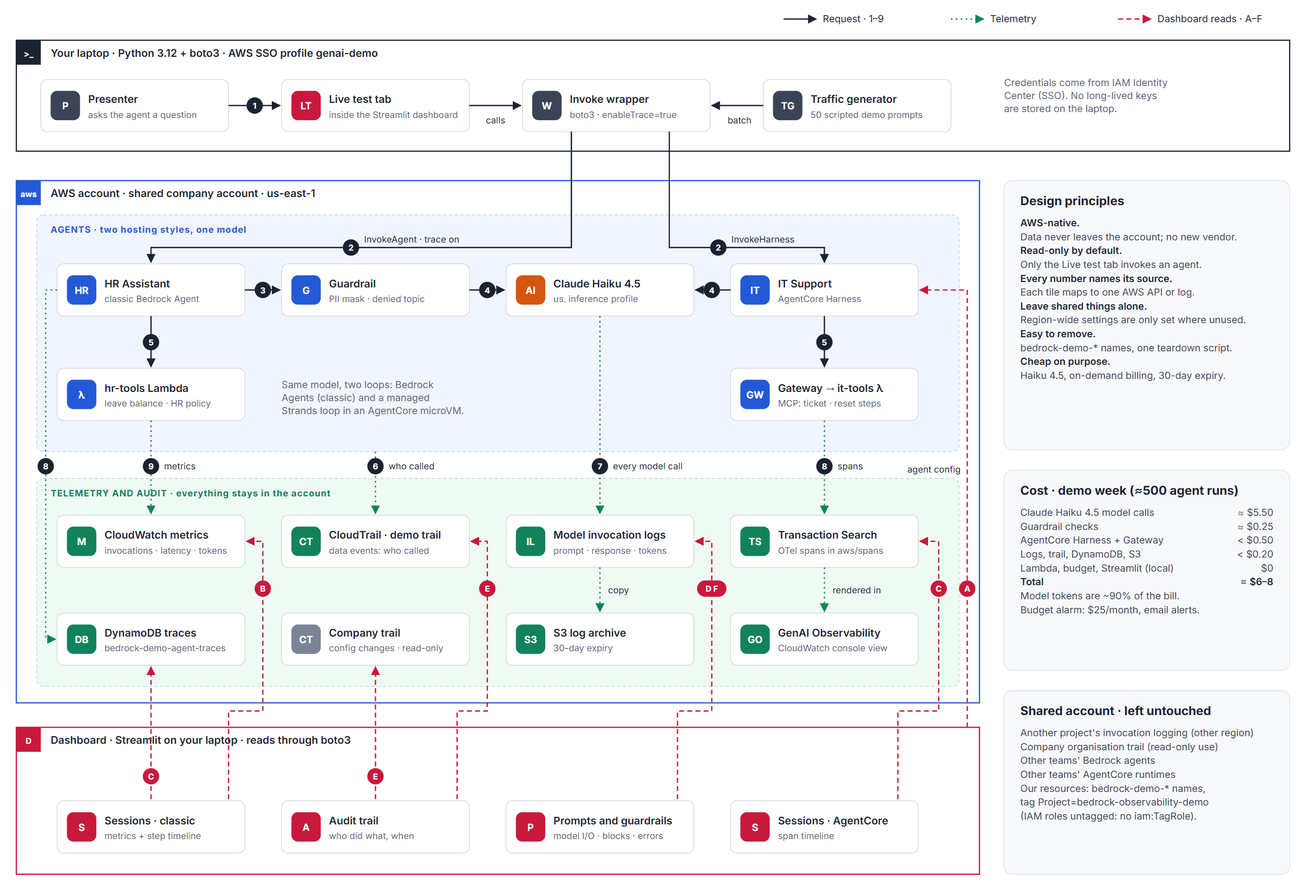
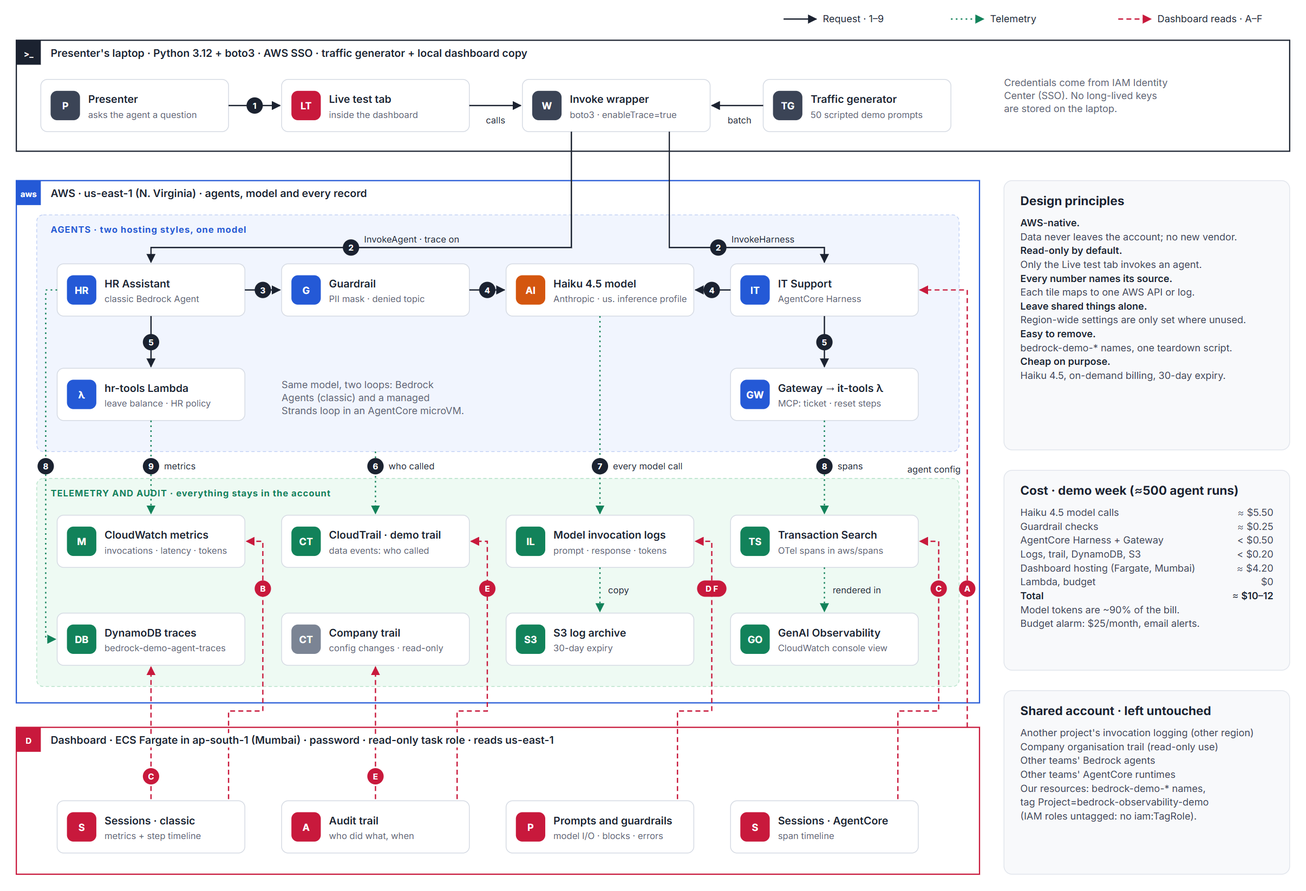
Architecture: show the hosted dashboard in ap-south-1
The dashboard box now shows ECS Fargate in Mumbai reading us-east-1, the cost panel
includes hosting, and the title is drawn above the read arrows.

diff --git a/docs/architecture.html b/docs/architecture.html
@@ -104,7 +104,7 @@ footer { max-width: 1240px; margin: 48px auto 0; color: var(--muted); font-size:
 
 <main>
 <figure>
-  <div class="diagram"><svg viewBox="0 0 1600 1090" role="img" aria-label="Requests flow from the laptop to a classic Bedrock Agent and an AgentCore agent that share Claude Haiku 4.5; every call is recorded by CloudTrail, model invocation logging, CloudWatch metrics, DynamoDB traces and AgentCore spans, and the Streamlit dashboard reads all of them back."><defs><marker id="a-ink" viewBox="0 0 10 10" refX="9" refY="5" markerWidth="7" markerHeight="7" orient="auto-start-reverse"><path d="M0,0 L10,5 L0,10 z" fill="#1b2230"/></marker><marker id="a-green" viewBox="0 0 10 10" refX="9" refY="5" markerWidth="7" markerHeight="7" orient="auto-start-reverse"><path d="M0,0 L10,5 L0,10 z" fill="#12825a"/></marker><marker id="a-red" viewBox="0 0 10 10" refX="9" refY="5" markerWidth="7" markerHeight="7" orient="auto-start-reverse"><path d="M0,0 L10,5 L0,10 z" fill="#c8193c"/></marker></defs><path d="M960,22 H1000" fill="none" stroke="#1b2230" stroke-width="1.6" marker-end="url(#a-ink)"/><text x="1008" y="26" text-anchor="start" class="lg">Request · 1–9</text><path d="M1165,22 H1205" fill="none" stroke="#12825a" stroke-width="1.6" stroke-dasharray="2 4" marker-end="url(#a-green)"/><text x="1213" y="26" text-anchor="start" class="lg">Telemetry</text><path d="M1370,22 H1410" fill="none" stroke="#c8193c" stroke-width="1.6" stroke-dasharray="6 4" marker-end="url(#a-red)"/><text x="1418" y="26" text-anchor="start" class="lg">Dashboard reads · A–F</text><rect x="20" y="48" width="1560" height="136" class="box" stroke="#1b2230"/><rect x="20" y="48" width="30" height="30" fill="#1b2230"/><text x="35" y="68" text-anchor="middle" class="ic sm">&gt;_</text><text x="62" y="68" class="bh">Your laptop · Python 3.12 + boto3 · AWS SSO profile genai-demo</text><g><rect x="50" y="96" width="230" height="64" rx="8" class="card"/><rect x="62" y="110" width="36" height="36" rx="8" fill="#3b4456"/><text x="80" y="133" text-anchor="middle" class="ic">P</text><text x="108" y="125" class="ct">Presenter</text><text x="108" y="143" class="cs">asks the agent a question</text></g><g><rect x="345" y="96" width="230" height="64" rx="8" class="card"/><rect x="357" y="110" width="36" height="36" rx="8" fill="#c8193c"/><text x="375" y="133" text-anchor="middle" class="ic">LT</text><text x="403" y="125" class="ct">Live test tab</text><text x="403" y="143" class="cs">inside the Streamlit dashboard</text></g><g><rect x="640" y="96" width="230" height="64" rx="8" class="card"/><rect x="652" y="110" width="36" height="36" rx="8" fill="#3b4456"/><text x="670" y="133" text-anchor="middle" class="ic">W</text><text x="698" y="125" class="ct">Invoke wrapper</text><text x="698" y="143" class="cs">boto3 · enableTrace=true</text></g><g><rect x="935" y="96" width="230" height="64" rx="8" class="card"/><rect x="947" y="110" width="36" height="36" rx="8" fill="#3b4456"/><text x="965" y="133" text-anchor="middle" class="ic">TG</text><text x="993" y="125" class="ct">Traffic generator</text><text x="993" y="143" class="cs">50 scripted demo prompts</text></g><path d="M280,128 H343" fill="none" stroke="#1b2230" stroke-width="1.6" marker-end="url(#a-ink)"/><circle cx="312" cy="128" r="10" fill="#1b2230"/><text x="312" y="132" text-anchor="middle" class="nm">1</text><path d="M575,128 H638" fill="none" stroke="#1b2230" stroke-width="1.6" marker-end="url(#a-ink)"/><text x="607" y="150" text-anchor="middle" class="al">calls</text><path d="M935,128 H872" fill="none" stroke="#1b2230" stroke-width="1.6" marker-end="url(#a-ink)"/><text x="906" y="150" text-anchor="middle" class="al">batch</text><text x="1230" y="104" text-anchor="start" class="nt">Credentials come from IAM Identity</text><text x="1230" y="120" text-anchor="start" class="nt">Center (SSO). No long-lived keys</text><text x="1230" y="136" text-anchor="start" class="nt">are stored on the laptop.</text><rect x="20" y="220" width="1180" height="640" class="box" stroke="#2459d6"/><rect x="20" y="220" width="30" height="30" fill="#2459d6"/><text x="35" y="240" text-anchor="middle" class="ic sm">aws</text><text x="62" y="240" class="bh">AWS account · shared company account · us-east-1</text><rect x="45" y="262" width="1130" height="290" rx="8" fill="#f1f5fe" stroke="#c3d2f5" stroke-dasharray="4 3"/><text x="62" y="284" class="zl" fill="#2459d6">AGENTS · two hosting styles, one model</text><g><rect x="70" y="322" width="230" height="64" rx="8" class="card"/><rect x="82" y="336" width="36" height="36" rx="8" fill="#2459d6"/><text x="100" y="359" text-anchor="middle" class="ic">HR</text><text x="128" y="351" class="ct">HR Assistant</text><text x="128" y="369" class="cs">classic Bedrock Agent</text></g><g><rect x="345" y="322" width="230" height="64" rx="8" class="card"/><rect x="357" y="336" width="36" height="36" rx="8" fill="#2459d6"/><text x="375" y="359" text-anchor="middle" class="ic">G</text><text x="403" y="351" class="ct">Guardrail</text><text x="403" y="369" class="cs">PII mask · denied topic</text></g><g><rect x="620" y="322" width="230" height="64" rx="8" class="card"/><rect x="632" y="336" width="36" height="36" rx="8" fill="#d4560f"/><text x="650" y="359" text-anchor="middle" class="ic">AI</text><text x="678" y="351" class="ct">Claude Haiku 4.5</text><text x="678" y="369" class="cs">us. inference profile</text></g><g><rect x="895" y="322" width="230" height="64" rx="8" class="card"/><rect x="907" y="336" width="36" height="36" rx="8" fill="#2459d6"/><text x="925" y="359" text-anchor="middle" class="ic">IT</text><text x="953" y="351" class="ct">IT Support</text><text x="953" y="369" class="cs">AgentCore Harness</text></g><g><rect x="70" y="450" width="230" height="64" rx="8" class="card"/><rect x="82" y="464" width="36" height="36" rx="8" fill="#2459d6"/><text x="100" y="487" text-anchor="middle" class="ic">λ</text><text x="128" y="479" class="ct">hr-tools Lambda</text><text x="128" y="497" class="cs">leave balance · HR policy</text></g><g><rect x="895" y="450" width="230" height="64" rx="8" class="card"/><rect x="907" y="464" width="36" height="36" rx="8" fill="#2459d6"/><text x="925" y="487" text-anchor="middle" class="ic">GW</text><text x="953" y="479" class="ct">Gateway → it-tools λ</text><text x="953" y="497" class="cs">MCP: ticket · reset steps</text></g><text x="345" y="474" text-anchor="start" class="nt">Same model, two loops: Bedrock</text><text x="345" y="490" text-anchor="start" class="nt">Agents (classic) and a managed</text><text x="345" y="506" text-anchor="start" class="nt">Strands loop in an AgentCore microVM.</text><path d="M700,160 V302 H185 V320" fill="none" stroke="#1b2230" stroke-width="1.6" marker-end="url(#a-ink)"/><circle cx="430" cy="302" r="10" fill="#1b2230"/><text x="430" y="306" text-anchor="middle" class="nm">2</text><text x="446" y="296" text-anchor="start" class="al">InvokeAgent · trace on</text><path d="M820,160 V302 H1010 V320" fill="none" stroke="#1b2230" stroke-width="1.6" marker-end="url(#a-ink)"/><circle cx="880" cy="302" r="10" fill="#1b2230"/><text x="880" y="306" text-anchor="middle" class="nm">2</text><text x="896" y="296" text-anchor="start" class="al">InvokeHarness</text><path d="M300,354 H343" fill="none" stroke="#1b2230" stroke-width="1.6" marker-end="url(#a-ink)"/><circle cx="322" cy="354" r="10" fill="#1b2230"/><text x="322" y="358" text-anchor="middle" class="nm">3</text><path d="M575,354 H618" fill="none" stroke="#1b2230" stroke-width="1.6" marker-end="url(#a-ink)"/><circle cx="597" cy="354" r="10" fill="#1b2230"/><text x="597" y="358" text-anchor="middle" class="nm">4</text><path d="M895,354 H852" fill="none" stroke="#1b2230" stroke-width="1.6" marker-end="url(#a-ink)"/><circle cx="872" cy="354" r="10" fill="#1b2230"/><text x="872" y="358" text-anchor="middle" class="nm">4</text><path d="M185,386 V448" fill="none" stroke="#1b2230" stroke-width="1.6" marker-end="url(#a-ink)"/><circle cx="185" cy="418" r="10" fill="#1b2230"/><text x="185" y="422" text-anchor="middle" class="nm">5</text><path d="M1010,386 V448" fill="none" stroke="#1b2230" stroke-width="1.6" marker-end="url(#a-ink)"/><circle cx="1010" cy="418" r="10" fill="#1b2230"/><text x="1010" y="422" text-anchor="middle" class="nm">5</text><rect x="45" y="585" width="1130" height="255" rx="8" fill="#eefaf3" stroke="#b9e3cc" stroke-dasharray="4 3"/><text x="62" y="607" class="zl" fill="#12825a">TELEMETRY AND AUDIT · everything stays in the account</text><g><rect x="70" y="630" width="230" height="64" rx="8" class="card"/><rect x="82" y="644" width="36" height="36" rx="8" fill="#12825a"/><text x="100" y="667" text-anchor="middle" class="ic">M</text><text x="128" y="659" class="ct">CloudWatch metrics</text><text x="128" y="677" class="cs">invocations · latency · tokens</text></g><g><rect x="345" y="630" width="230" height="64" rx="8" class="card"/><rect x="357" y="644" width="36" height="36" rx="8" fill="#12825a"/><text x="375" y="667" text-anchor="middle" class="ic">CT</text><text x="403" y="659" class="ct">CloudTrail · demo trail</text><text x="403" y="677" class="cs">data events: who called</text></g><g><rect x="620" y="630" width="230" height="64" rx="8" class="card"/><rect x="632" y="644" width="36" height="36" rx="8" fill="#12825a"/><text x="650" y="667" text-anchor="middle" class="ic">IL</text><text x="678" y="659" class="ct">Model invocation logs</text><text x="678" y="677" class="cs">prompt · response · tokens</text></g><g><rect x="895" y="630" width="230" height="64" rx="8" class="card"/><rect x="907" y="644" width="36" height="36" rx="8" fill="#12825a"/><text x="925" y="667" text-anchor="middle" class="ic">TS</text><text x="953" y="659" class="ct">Transaction Search</text><text x="953" y="677" class="cs">OTel spans in aws/spans</text></g><g><rect x="70" y="750" width="230" height="64" rx="8" class="card"/><rect x="82" y="764" width="36" height="36" rx="8" fill="#12825a"/><text x="100" y="787" text-anchor="middle" class="ic">DB</text><text x="128" y="779" class="ct">DynamoDB traces</text><text x="128" y="797" class="cs">bedrock-demo-agent-traces</text></g><g><rect x="345" y="750" width="230" height="64" rx="8" class="card"/><rect x="357" y="764" width="36" height="36" rx="8" fill="#7b8494"/><text x="375" y="787" text-anchor="middle" class="ic">CT</text><text x="403" y="779" class="ct">Company trail</text><text x="403" y="797" class="cs">config changes · read-only</text></g><g><rect x="620" y="750" width="230" height="64" rx="8" class="card"/><rect x="632" y="764" width="36" height="36" rx="8" fill="#12825a"/><text x="650" y="787" text-anchor="middle" class="ic">S3</text><text x="678" y="779" class="ct">S3 log archive</text><text x="678" y="797" class="cs">30-day expiry</text></g><g><rect x="895" y="750" width="230" height="64" rx="8" class="card"/><rect x="907" y="764" width="36" height="36" rx="8" fill="#12825a"/><text x="925" y="787" text-anchor="middle" class="ic">GO</text><text x="953" y="779" class="ct">GenAI Observability</text><text x="953" y="797" class="cs">CloudWatch console view</text></g><path d="M460,552 V628" fill="none" stroke="#12825a" stroke-width="1.6" stroke-dasharray="2 4" marker-end="url(#a-green)"/><circle cx="460" cy="570" r="10" fill="#1b2230"/><text x="460" y="574" text-anchor="middle" class="nm">6</text><text x="476" y="574" text-anchor="start" class="al">who called</text><path d="M735,386 V628" fill="none" stroke="#12825a" stroke-width="1.6" stroke-dasharray="2 4" marker-end="url(#a-green)"/><circle cx="735" cy="570" r="10" fill="#1b2230"/><text x="735" y="574" text-anchor="middle" class="nm">7</text><text x="751" y="574" text-anchor="start" class="al">every model call</text><path d="M70,354 H56 V782 H68" fill="none" stroke="#12825a" stroke-width="1.6" stroke-dasharray="2 4" marker-end="url(#a-green)"/><circle cx="56" cy="570" r="10" fill="#1b2230"/><text x="56" y="574" text-anchor="middle" class="nm">8</text><path d="M1010,514 V628" fill="none" stroke="#12825a" stroke-width="1.6" stroke-dasharray="2 4" marker-end="url(#a-green)"/><circle cx="1010" cy="570" r="10" fill="#1b2230"/><text x="1010" y="574" text-anchor="middle" class="nm">8</text><text x="1026" y="574" text-anchor="start" class="al">spans</text><path d="M185,514 V628" fill="none" stroke="#12825a" stroke-width="1.6" stroke-dasharray="2 4" marker-end="url(#a-green)"/><circle cx="185" cy="570" r="10" fill="#1b2230"/><text x="185" y="574" text-anchor="middle" class="nm">9</text><text x="201" y="574" text-anchor="start" class="al">metrics</text><path d="M735,694 V748" fill="none" stroke="#12825a" stroke-width="1.6" stroke-dasharray="2 4" marker-end="url(#a-green)"/><text x="745" y="726" text-anchor="start" class="al">copy</text><path d="M1010,694 V748" fill="none" stroke="#12825a" stroke-width="1.6" stroke-dasharray="2 4" marker-end="url(#a-green)"/><text x="1020" y="726" text-anchor="start" class="al">rendered in</text><rect x="20" y="890" width="1180" height="180" class="box" stroke="#c8193c"/><rect x="20" y="890" width="30" height="30" fill="#c8193c"/><text x="35" y="910" text-anchor="middle" class="ic sm">D</text><text x="62" y="910" class="bh">Dashboard · Streamlit on your laptop · reads through boto3</text><g><rect x="70" y="980" width="230" height="64" rx="8" class="card"/><rect x="82" y="994" width="36" height="36" rx="8" fill="#c8193c"/><text x="100" y="1017" text-anchor="middle" class="ic">S</text><text x="128" y="1009" class="ct">Sessions · classic</text><text x="128" y="1027" class="cs">metrics + step timeline</text></g><g><rect x="345" y="980" width="230" height="64" rx="8" class="card"/><rect x="357" y="994" width="36" height="36" rx="8" fill="#c8193c"/><text x="375" y="1017" text-anchor="middle" class="ic">A</text><text x="403" y="1009" class="ct">Audit trail</text><text x="403" y="1027" class="cs">who did what, when</text></g><g><rect x="620" y="980" width="230" height="64" rx="8" class="card"/><rect x="632" y="994" width="36" height="36" rx="8" fill="#c8193c"/><text x="650" y="1017" text-anchor="middle" class="ic">P</text><text x="678" y="1009" class="ct">Prompts and guardrails</text><text x="678" y="1027" class="cs">model I/O · blocks · errors</text></g><g><rect x="895" y="980" width="230" height="64" rx="8" class="card"/><rect x="907" y="994" width="36" height="36" rx="8" fill="#c8193c"/><text x="925" y="1017" text-anchor="middle" class="ic">S</text><text x="953" y="1009" class="ct">Sessions · AgentCore</text><text x="953" y="1027" class="cs">span timeline</text></g><path d="M185,978 V816" fill="none" stroke="#c8193c" stroke-width="1.6" stroke-dasharray="6 4" marker-end="url(#a-red)"/><rect x="175.0" y="940" width="20" height="20" rx="10" fill="#c8193c"/><text x="185" y="954" text-anchor="middle" class="nm">C</text><path d="M280,978 V870 H322 V662 H302" fill="none" stroke="#c8193c" stroke-width="1.6" stroke-dasharray="6 4" marker-end="url(#a-red)"/><rect x="312.0" y="710" width="20" height="20" rx="10" fill="#c8193c"/><text x="322" y="724" text-anchor="middle" class="nm">B</text><path d="M460,978 V816" fill="none" stroke="#c8193c" stroke-width="1.6" stroke-dasharray="6 4" marker-end="url(#a-red)"/><rect x="450.0" y="940" width="20" height="20" rx="10" fill="#c8193c"/><text x="460" y="954" text-anchor="middle" class="nm">E</text><path d="M560,978 V870 H597 V662 H577" fill="none" stroke="#c8193c" stroke-width="1.6" stroke-dasharray="6 4" marker-end="url(#a-red)"/><rect x="587.0" y="710" width="20" height="20" rx="10" fill="#c8193c"/><text x="597" y="724" text-anchor="middle" class="nm">E</text><path d="M830,978 V870 H872 V662 H852" fill="none" stroke="#c8193c" stroke-width="1.6" stroke-dasharray="6 4" marker-end="url(#a-red)"/><rect x="854.0" y="710" width="36" height="20" rx="10" fill="#c8193c"/><text x="872" y="724" text-anchor="middle" class="nm">D F</text><path d="M1100,978 V870 H1150 V662 H1127" fill="none" stroke="#c8193c" stroke-width="1.6" stroke-dasharray="6 4" marker-end="url(#a-red)"/><rect x="1140.0" y="710" width="20" height="20" rx="10" fill="#c8193c"/><text x="1150" y="724" text-anchor="middle" class="nm">C</text><path d="M1185,890 V354 H1127" fill="none" stroke="#c8193c" stroke-width="1.6" stroke-dasharray="6 4" marker-end="url(#a-red)"/><rect x="1175.0" y="710" width="20" height="20" rx="10" fill="#c8193c"/><text x="1185" y="724" text-anchor="middle" class="nm">A</text><text x="1177" y="578" text-anchor="end" class="al">agent config</text><rect x="1230" y="220" width="350" height="330" rx="10" class="panel"/><text x="1250" y="250" text-anchor="start" class="ph">Design principles</text><text x="1250" y="276" text-anchor="start" class="pb">AWS-native.</text><text x="1250" y="293" text-anchor="start" class="pt">Data never leaves the account; no new vendor.</text><text x="1250" y="310" text-anchor="start" class="pb">Read-only by default.</text><text x="1250" y="327" text-anchor="start" class="pt">Only the Live test tab invokes an agent.</text><text x="1250" y="344" text-anchor="start" class="pb">Every number names its source.</text><text x="1250" y="361" text-anchor="start" class="pt">Each tile maps to one AWS API or log.</text><text x="1250" y="378" text-anchor="start" class="pb">Leave shared things alone.</text><text x="1250" y="395" text-anchor="start" class="pt">Region-wide settings are only set where unused.</text><text x="1250" y="412" text-anchor="start" class="pb">Easy to remove.</text><text x="1250" y="429" text-anchor="start" class="pt">bedrock-demo-* names, one teardown script.</text><text x="1250" y="446" text-anchor="start" class="pb">Cheap on purpose.</text><text x="1250" y="463" text-anchor="start" class="pt">Haiku 4.5, on-demand billing, 30-day expiry.</text><rect x="1230" y="575" width="350" height="245" rx="10" class="panel"/><text x="1250" y="605" text-anchor="start" class="ph">Cost · demo week (≈500 agent runs)</text><text x="1250" y="631" text-anchor="start" class="pt">Claude Haiku 4.5 model calls</text><text x="1560" y="631" text-anchor="end" class="pt">≈ $5.50</text><text x="1250" y="648" text-anchor="start" class="pt">Guardrail checks</text><text x="1560" y="648" text-anchor="end" class="pt">≈ $0.25</text><text x="1250" y="665" text-anchor="start" class="pt">AgentCore Harness + Gateway</text><text x="1560" y="665" text-anchor="end" class="pt">&lt; $0.50</text><text x="1250" y="682" text-anchor="start" class="pt">Logs, trail, DynamoDB, S3</text><text x="1560" y="682" text-anchor="end" class="pt">&lt; $0.20</text><text x="1250" y="699" text-anchor="start" class="pt">Lambda, budget, Streamlit (local)</text><text x="1560" y="699" text-anchor="end" class="pt">$0</text><text x="1250" y="716" text-anchor="start" class="pb">Total</text><text x="1560" y="716" text-anchor="end" class="pb">≈ $6–8</text><text x="1250" y="733" text-anchor="start" class="pt">Model tokens are ~90% of the bill.</text><text x="1250" y="750" text-anchor="start" class="pt">Budget alarm: $25/month, email alerts.</text><rect x="1230" y="845" width="350" height="225" rx="10" class="panel"/><text x="1250" y="875" text-anchor="start" class="ph">Shared account · left untouched</text><text x="1250" y="901" text-anchor="start" class="pt">Another project&#x27;s invocation logging (other region)</text><text x="1250" y="918" text-anchor="start" class="pt">Company organisation trail (read-only use)</text><text x="1250" y="935" text-anchor="start" class="pt">Other teams&#x27; Bedrock agents</text><text x="1250" y="952" text-anchor="start" class="pt">Other teams&#x27; AgentCore runtimes</text><text x="1250" y="969" text-anchor="start" class="pt">Our resources: bedrock-demo-* names,</text><text x="1250" y="986" text-anchor="start" class="pt">tag Project=bedrock-observability-demo</text><text x="1250" y="1003" text-anchor="start" class="pt">(IAM roles untagged: no iam:TagRole).</text></svg></div>
+  <div class="diagram"><svg viewBox="0 0 1600 1090" role="img" aria-label="Requests flow from the laptop to a classic Bedrock Agent and an AgentCore agent that share the Haiku 4.5 model in us-east-1; every call is recorded by CloudTrail, model invocation logging, CloudWatch metrics, DynamoDB traces and AgentCore spans, and the Streamlit dashboard reads all of them back."><defs><marker id="a-ink" viewBox="0 0 10 10" refX="9" refY="5" markerWidth="7" markerHeight="7" orient="auto-start-reverse"><path d="M0,0 L10,5 L0,10 z" fill="#1b2230"/></marker><marker id="a-green" viewBox="0 0 10 10" refX="9" refY="5" markerWidth="7" markerHeight="7" orient="auto-start-reverse"><path d="M0,0 L10,5 L0,10 z" fill="#12825a"/></marker><marker id="a-red" viewBox="0 0 10 10" refX="9" refY="5" markerWidth="7" markerHeight="7" orient="auto-start-reverse"><path d="M0,0 L10,5 L0,10 z" fill="#c8193c"/></marker></defs><path d="M960,22 H1000" fill="none" stroke="#1b2230" stroke-width="1.6" marker-end="url(#a-ink)"/><text x="1008" y="26" text-anchor="start" class="lg">Request · 1–9</text><path d="M1165,22 H1205" fill="none" stroke="#12825a" stroke-width="1.6" stroke-dasharray="2 4" marker-end="url(#a-green)"/><text x="1213" y="26" text-anchor="start" class="lg">Telemetry</text><path d="M1370,22 H1410" fill="none" stroke="#c8193c" stroke-width="1.6" stroke-dasharray="6 4" marker-end="url(#a-red)"/><text x="1418" y="26" text-anchor="start" class="lg">Dashboard reads · A–F</text><rect x="20" y="48" width="1560" height="136" class="box" stroke="#1b2230"/><rect x="20" y="48" width="30" height="30" fill="#1b2230"/><text x="35" y="68" text-anchor="middle" class="ic sm">&gt;_</text><text x="62" y="68" class="bh">Presenter&#x27;s laptop · Python 3.12 + boto3 · AWS SSO · traffic generator + local dashboard copy</text><g><rect x="50" y="96" width="230" height="64" rx="8" class="card"/><rect x="62" y="110" width="36" height="36" rx="8" fill="#3b4456"/><text x="80" y="133" text-anchor="middle" class="ic">P</text><text x="108" y="125" class="ct">Presenter</text><text x="108" y="143" class="cs">asks the agent a question</text></g><g><rect x="345" y="96" width="230" height="64" rx="8" class="card"/><rect x="357" y="110" width="36" height="36" rx="8" fill="#c8193c"/><text x="375" y="133" text-anchor="middle" class="ic">LT</text><text x="403" y="125" class="ct">Live test tab</text><text x="403" y="143" class="cs">inside the dashboard</text></g><g><rect x="640" y="96" width="230" height="64" rx="8" class="card"/><rect x="652" y="110" width="36" height="36" rx="8" fill="#3b4456"/><text x="670" y="133" text-anchor="middle" class="ic">W</text><text x="698" y="125" class="ct">Invoke wrapper</text><text x="698" y="143" class="cs">boto3 · enableTrace=true</text></g><g><rect x="935" y="96" width="230" height="64" rx="8" class="card"/><rect x="947" y="110" width="36" height="36" rx="8" fill="#3b4456"/><text x="965" y="133" text-anchor="middle" class="ic">TG</text><text x="993" y="125" class="ct">Traffic generator</text><text x="993" y="143" class="cs">50 scripted demo prompts</text></g><path d="M280,128 H343" fill="none" stroke="#1b2230" stroke-width="1.6" marker-end="url(#a-ink)"/><circle cx="312" cy="128" r="10" fill="#1b2230"/><text x="312" y="132" text-anchor="middle" class="nm">1</text><path d="M575,128 H638" fill="none" stroke="#1b2230" stroke-width="1.6" marker-end="url(#a-ink)"/><text x="607" y="150" text-anchor="middle" class="al">calls</text><path d="M935,128 H872" fill="none" stroke="#1b2230" stroke-width="1.6" marker-end="url(#a-ink)"/><text x="906" y="150" text-anchor="middle" class="al">batch</text><text x="1230" y="104" text-anchor="start" class="nt">Credentials come from IAM Identity</text><text x="1230" y="120" text-anchor="start" class="nt">Center (SSO). No long-lived keys</text><text x="1230" y="136" text-anchor="start" class="nt">are stored on the laptop.</text><rect x="20" y="220" width="1180" height="640" class="box" stroke="#2459d6"/><rect x="20" y="220" width="30" height="30" fill="#2459d6"/><text x="35" y="240" text-anchor="middle" class="ic sm">aws</text><text x="62" y="240" class="bh">AWS · us-east-1 (N. Virginia) · agents, model and every record</text><rect x="45" y="262" width="1130" height="290" rx="8" fill="#f1f5fe" stroke="#c3d2f5" stroke-dasharray="4 3"/><text x="62" y="284" class="zl" fill="#2459d6">AGENTS · two hosting styles, one model</text><g><rect x="70" y="322" width="230" height="64" rx="8" class="card"/><rect x="82" y="336" width="36" height="36" rx="8" fill="#2459d6"/><text x="100" y="359" text-anchor="middle" class="ic">HR</text><text x="128" y="351" class="ct">HR Assistant</text><text x="128" y="369" class="cs">classic Bedrock Agent</text></g><g><rect x="345" y="322" width="230" height="64" rx="8" class="card"/><rect x="357" y="336" width="36" height="36" rx="8" fill="#2459d6"/><text x="375" y="359" text-anchor="middle" class="ic">G</text><text x="403" y="351" class="ct">Guardrail</text><text x="403" y="369" class="cs">PII mask · denied topic</text></g><g><rect x="620" y="322" width="230" height="64" rx="8" class="card"/><rect x="632" y="336" width="36" height="36" rx="8" fill="#d4560f"/><text x="650" y="359" text-anchor="middle" class="ic">AI</text><text x="678" y="351" class="ct">Haiku 4.5 model</text><text x="678" y="369" class="cs">Anthropic · us. inference profile</text></g><g><rect x="895" y="322" width="230" height="64" rx="8" class="card"/><rect x="907" y="336" width="36" height="36" rx="8" fill="#2459d6"/><text x="925" y="359" text-anchor="middle" class="ic">IT</text><text x="953" y="351" class="ct">IT Support</text><text x="953" y="369" class="cs">AgentCore Harness</text></g><g><rect x="70" y="450" width="230" height="64" rx="8" class="card"/><rect x="82" y="464" width="36" height="36" rx="8" fill="#2459d6"/><text x="100" y="487" text-anchor="middle" class="ic">λ</text><text x="128" y="479" class="ct">hr-tools Lambda</text><text x="128" y="497" class="cs">leave balance · HR policy</text></g><g><rect x="895" y="450" width="230" height="64" rx="8" class="card"/><rect x="907" y="464" width="36" height="36" rx="8" fill="#2459d6"/><text x="925" y="487" text-anchor="middle" class="ic">GW</text><text x="953" y="479" class="ct">Gateway → it-tools λ</text><text x="953" y="497" class="cs">MCP: ticket · reset steps</text></g><text x="345" y="474" text-anchor="start" class="nt">Same model, two loops: Bedrock</text><text x="345" y="490" text-anchor="start" class="nt">Agents (classic) and a managed</text><text x="345" y="506" text-anchor="start" class="nt">Strands loop in an AgentCore microVM.</text><path d="M700,160 V302 H185 V320" fill="none" stroke="#1b2230" stroke-width="1.6" marker-end="url(#a-ink)"/><circle cx="430" cy="302" r="10" fill="#1b2230"/><text x="430" y="306" text-anchor="middle" class="nm">2</text><text x="446" y="296" text-anchor="start" class="al">InvokeAgent · trace on</text><path d="M820,160 V302 H1010 V320" fill="none" stroke="#1b2230" stroke-width="1.6" marker-end="url(#a-ink)"/><circle cx="880" cy="302" r="10" fill="#1b2230"/><text x="880" y="306" text-anchor="middle" class="nm">2</text><text x="896" y="296" text-anchor="start" class="al">InvokeHarness</text><path d="M300,354 H343" fill="none" stroke="#1b2230" stroke-width="1.6" marker-end="url(#a-ink)"/><circle cx="322" cy="354" r="10" fill="#1b2230"/><text x="322" y="358" text-anchor="middle" class="nm">3</text><path d="M575,354 H618" fill="none" stroke="#1b2230" stroke-width="1.6" marker-end="url(#a-ink)"/><circle cx="597" cy="354" r="10" fill="#1b2230"/><text x="597" y="358" text-anchor="middle" class="nm">4</text><path d="M895,354 H852" fill="none" stroke="#1b2230" stroke-width="1.6" marker-end="url(#a-ink)"/><circle cx="872" cy="354" r="10" fill="#1b2230"/><text x="872" y="358" text-anchor="middle" class="nm">4</text><path d="M185,386 V448" fill="none" stroke="#1b2230" stroke-width="1.6" marker-end="url(#a-ink)"/><circle cx="185" cy="418" r="10" fill="#1b2230"/><text x="185" y="422" text-anchor="middle" class="nm">5</text><path d="M1010,386 V448" fill="none" stroke="#1b2230" stroke-width="1.6" marker-end="url(#a-ink)"/><circle cx="1010" cy="418" r="10" fill="#1b2230"/><text x="1010" y="422" text-anchor="middle" class="nm">5</text><rect x="45" y="585" width="1130" height="255" rx="8" fill="#eefaf3" stroke="#b9e3cc" stroke-dasharray="4 3"/><text x="62" y="607" class="zl" fill="#12825a">TELEMETRY AND AUDIT · everything stays in the account</text><g><rect x="70" y="630" width="230" height="64" rx="8" class="card"/><rect x="82" y="644" width="36" height="36" rx="8" fill="#12825a"/><text x="100" y="667" text-anchor="middle" class="ic">M</text><text x="128" y="659" class="ct">CloudWatch metrics</text><text x="128" y="677" class="cs">invocations · latency · tokens</text></g><g><rect x="345" y="630" width="230" height="64" rx="8" class="card"/><rect x="357" y="644" width="36" height="36" rx="8" fill="#12825a"/><text x="375" y="667" text-anchor="middle" class="ic">CT</text><text x="403" y="659" class="ct">CloudTrail · demo trail</text><text x="403" y="677" class="cs">data events: who called</text></g><g><rect x="620" y="630" width="230" height="64" rx="8" class="card"/><rect x="632" y="644" width="36" height="36" rx="8" fill="#12825a"/><text x="650" y="667" text-anchor="middle" class="ic">IL</text><text x="678" y="659" class="ct">Model invocation logs</text><text x="678" y="677" class="cs">prompt · response · tokens</text></g><g><rect x="895" y="630" width="230" height="64" rx="8" class="card"/><rect x="907" y="644" width="36" height="36" rx="8" fill="#12825a"/><text x="925" y="667" text-anchor="middle" class="ic">TS</text><text x="953" y="659" class="ct">Transaction Search</text><text x="953" y="677" class="cs">OTel spans in aws/spans</text></g><g><rect x="70" y="750" width="230" height="64" rx="8" class="card"/><rect x="82" y="764" width="36" height="36" rx="8" fill="#12825a"/><text x="100" y="787" text-anchor="middle" class="ic">DB</text><text x="128" y="779" class="ct">DynamoDB traces</text><text x="128" y="797" class="cs">bedrock-demo-agent-traces</text></g><g><rect x="345" y="750" width="230" height="64" rx="8" class="card"/><rect x="357" y="764" width="36" height="36" rx="8" fill="#7b8494"/><text x="375" y="787" text-anchor="middle" class="ic">CT</text><text x="403" y="779" class="ct">Company trail</text><text x="403" y="797" class="cs">config changes · read-only</text></g><g><rect x="620" y="750" width="230" height="64" rx="8" class="card"/><rect x="632" y="764" width="36" height="36" rx="8" fill="#12825a"/><text x="650" y="787" text-anchor="middle" class="ic">S3</text><text x="678" y="779" class="ct">S3 log archive</text><text x="678" y="797" class="cs">30-day expiry</text></g><g><rect x="895" y="750" width="230" height="64" rx="8" class="card"/><rect x="907" y="764" width="36" height="36" rx="8" fill="#12825a"/><text x="925" y="787" text-anchor="middle" class="ic">GO</text><text x="953" y="779" class="ct">GenAI Observability</text><text x="953" y="797" class="cs">CloudWatch console view</text></g><path d="M460,552 V628" fill="none" stroke="#12825a" stroke-width="1.6" stroke-dasharray="2 4" marker-end="url(#a-green)"/><circle cx="460" cy="570" r="10" fill="#1b2230"/><text x="460" y="574" text-anchor="middle" class="nm">6</text><text x="476" y="574" text-anchor="start" class="al">who called</text><path d="M735,386 V628" fill="none" stroke="#12825a" stroke-width="1.6" stroke-dasharray="2 4" marker-end="url(#a-green)"/><circle cx="735" cy="570" r="10" fill="#1b2230"/><text x="735" y="574" text-anchor="middle" class="nm">7</text><text x="751" y="574" text-anchor="start" class="al">every model call</text><path d="M70,354 H56 V782 H68" fill="none" stroke="#12825a" stroke-width="1.6" stroke-dasharray="2 4" marker-end="url(#a-green)"/><circle cx="56" cy="570" r="10" fill="#1b2230"/><text x="56" y="574" text-anchor="middle" class="nm">8</text><path d="M1010,514 V628" fill="none" stroke="#12825a" stroke-width="1.6" stroke-dasharray="2 4" marker-end="url(#a-green)"/><circle cx="1010" cy="570" r="10" fill="#1b2230"/><text x="1010" y="574" text-anchor="middle" class="nm">8</text><text x="1026" y="574" text-anchor="start" class="al">spans</text><path d="M185,514 V628" fill="none" stroke="#12825a" stroke-width="1.6" stroke-dasharray="2 4" marker-end="url(#a-green)"/><circle cx="185" cy="570" r="10" fill="#1b2230"/><text x="185" y="574" text-anchor="middle" class="nm">9</text><text x="201" y="574" text-anchor="start" class="al">metrics</text><path d="M735,694 V748" fill="none" stroke="#12825a" stroke-width="1.6" stroke-dasharray="2 4" marker-end="url(#a-green)"/><text x="745" y="726" text-anchor="start" class="al">copy</text><path d="M1010,694 V748" fill="none" stroke="#12825a" stroke-width="1.6" stroke-dasharray="2 4" marker-end="url(#a-green)"/><text x="1020" y="726" text-anchor="start" class="al">rendered in</text><rect x="20" y="890" width="1180" height="180" class="box" stroke="#c8193c"/><rect x="20" y="890" width="30" height="30" fill="#c8193c"/><text x="35" y="910" text-anchor="middle" class="ic sm">D</text><text x="62" y="910" class="bh">Dashboard · ECS Fargate in ap-south-1 (Mumbai) · password · read-only task role · reads us-east-1</text><g><rect x="70" y="980" width="230" height="64" rx="8" class="card"/><rect x="82" y="994" width="36" height="36" rx="8" fill="#c8193c"/><text x="100" y="1017" text-anchor="middle" class="ic">S</text><text x="128" y="1009" class="ct">Sessions · classic</text><text x="128" y="1027" class="cs">metrics + step timeline</text></g><g><rect x="345" y="980" width="230" height="64" rx="8" class="card"/><rect x="357" y="994" width="36" height="36" rx="8" fill="#c8193c"/><text x="375" y="1017" text-anchor="middle" class="ic">A</text><text x="403" y="1009" class="ct">Audit trail</text><text x="403" y="1027" class="cs">who did what, when</text></g><g><rect x="620" y="980" width="230" height="64" rx="8" class="card"/><rect x="632" y="994" width="36" height="36" rx="8" fill="#c8193c"/><text x="650" y="1017" text-anchor="middle" class="ic">P</text><text x="678" y="1009" class="ct">Prompts and guardrails</text><text x="678" y="1027" class="cs">model I/O · blocks · errors</text></g><g><rect x="895" y="980" width="230" height="64" rx="8" class="card"/><rect x="907" y="994" width="36" height="36" rx="8" fill="#c8193c"/><text x="925" y="1017" text-anchor="middle" class="ic">S</text><text x="953" y="1009" class="ct">Sessions · AgentCore</text><text x="953" y="1027" class="cs">span timeline</text></g><path d="M185,978 V816" fill="none" stroke="#c8193c" stroke-width="1.6" stroke-dasharray="6 4" marker-end="url(#a-red)"/><rect x="175.0" y="940" width="20" height="20" rx="10" fill="#c8193c"/><text x="185" y="954" text-anchor="middle" class="nm">C</text><path d="M280,978 V870 H322 V662 H302" fill="none" stroke="#c8193c" stroke-width="1.6" stroke-dasharray="6 4" marker-end="url(#a-red)"/><rect x="312.0" y="710" width="20" height="20" rx="10" fill="#c8193c"/><text x="322" y="724" text-anchor="middle" class="nm">B</text><path d="M460,978 V816" fill="none" stroke="#c8193c" stroke-width="1.6" stroke-dasharray="6 4" marker-end="url(#a-red)"/><rect x="450.0" y="940" width="20" height="20" rx="10" fill="#c8193c"/><text x="460" y="954" text-anchor="middle" class="nm">E</text><path d="M560,978 V870 H597 V662 H577" fill="none" stroke="#c8193c" stroke-width="1.6" stroke-dasharray="6 4" marker-end="url(#a-red)"/><rect x="587.0" y="710" width="20" height="20" rx="10" fill="#c8193c"/><text x="597" y="724" text-anchor="middle" class="nm">E</text><path d="M830,978 V870 H872 V662 H852" fill="none" stroke="#c8193c" stroke-width="1.6" stroke-dasharray="6 4" marker-end="url(#a-red)"/><rect x="854.0" y="710" width="36" height="20" rx="10" fill="#c8193c"/><text x="872" y="724" text-anchor="middle" class="nm">D F</text><path d="M1100,978 V870 H1150 V662 H1127" fill="none" stroke="#c8193c" stroke-width="1.6" stroke-dasharray="6 4" marker-end="url(#a-red)"/><rect x="1140.0" y="710" width="20" height="20" rx="10" fill="#c8193c"/><text x="1150" y="724" text-anchor="middle" class="nm">C</text><path d="M1185,890 V354 H1127" fill="none" stroke="#c8193c" stroke-width="1.6" stroke-dasharray="6 4" marker-end="url(#a-red)"/><rect x="1175.0" y="710" width="20" height="20" rx="10" fill="#c8193c"/><text x="1185" y="724" text-anchor="middle" class="nm">A</text><text x="1177" y="578" text-anchor="end" class="al">agent config</text><text x="62" y="910" class="bh" style="paint-order:stroke;stroke:#fff;stroke-width:9px;stroke-linejoin:round">Dashboard · ECS Fargate in ap-south-1 (Mumbai) · password · read-only task role · reads us-east-1</text><rect x="1230" y="220" width="350" height="330" rx="10" class="panel"/><text x="1250" y="250" text-anchor="start" class="ph">Design principles</text><text x="1250" y="276" text-anchor="start" class="pb">AWS-native.</text><text x="1250" y="293" text-anchor="start" class="pt">Data never leaves the account; no new vendor.</text><text x="1250" y="310" text-anchor="start" class="pb">Read-only by default.</text><text x="1250" y="327" text-anchor="start" class="pt">Only the Live test tab invokes an agent.</text><text x="1250" y="344" text-anchor="start" class="pb">Every number names its source.</text><text x="1250" y="361" text-anchor="start" class="pt">Each tile maps to one AWS API or log.</text><text x="1250" y="378" text-anchor="start" class="pb">Leave shared things alone.</text><text x="1250" y="395" text-anchor="start" class="pt">Region-wide settings are only set where unused.</text><text x="1250" y="412" text-anchor="start" class="pb">Easy to remove.</text><text x="1250" y="429" text-anchor="start" class="pt">bedrock-demo-* names, one teardown script.</text><text x="1250" y="446" text-anchor="start" class="pb">Cheap on purpose.</text><text x="1250" y="463" text-anchor="start" class="pt">Haiku 4.5, on-demand billing, 30-day expiry.</text><rect x="1230" y="575" width="350" height="245" rx="10" class="panel"/><text x="1250" y="605" text-anchor="start" class="ph">Cost · demo week (≈500 agent runs)</text><text x="1250" y="631" text-anchor="start" class="pt">Haiku 4.5 model calls</text><text x="1560" y="631" text-anchor="end" class="pt">≈ $5.50</text><text x="1250" y="648" text-anchor="start" class="pt">Guardrail checks</text><text x="1560" y="648" text-anchor="end" class="pt">≈ $0.25</text><text x="1250" y="665" text-anchor="start" class="pt">AgentCore Harness + Gateway</text><text x="1560" y="665" text-anchor="end" class="pt">&lt; $0.50</text><text x="1250" y="682" text-anchor="start" class="pt">Logs, trail, DynamoDB, S3</text><text x="1560" y="682" text-anchor="end" class="pt">&lt; $0.20</text><text x="1250" y="699" text-anchor="start" class="pt">Dashboard hosting (Fargate, Mumbai)</text><text x="1560" y="699" text-anchor="end" class="pt">≈ $4.20</text><text x="1250" y="716" text-anchor="start" class="pt">Lambda, budget</text><text x="1560" y="716" text-anchor="end" class="pt">$0</text><text x="1250" y="733" text-anchor="start" class="pb">Total</text><text x="1560" y="733" text-anchor="end" class="pb">≈ $10–12</text><text x="1250" y="750" text-anchor="start" class="pt">Model tokens are ~90% of the bill.</text><text x="1250" y="767" text-anchor="start" class="pt">Budget alarm: $25/month, email alerts.</text><rect x="1230" y="845" width="350" height="225" rx="10" class="panel"/><text x="1250" y="875" text-anchor="start" class="ph">Shared account · left untouched</text><text x="1250" y="901" text-anchor="start" class="pt">Another project&#x27;s invocation logging (other region)</text><text x="1250" y="918" text-anchor="start" class="pt">Company organisation trail (read-only use)</text><text x="1250" y="935" text-anchor="start" class="pt">Other teams&#x27; Bedrock agents</text><text x="1250" y="952" text-anchor="start" class="pt">Other teams&#x27; AgentCore runtimes</text><text x="1250" y="969" text-anchor="start" class="pt">Our resources: bedrock-demo-* names,</text><text x="1250" y="986" text-anchor="start" class="pt">tag Project=bedrock-observability-demo</text><text x="1250" y="1003" text-anchor="start" class="pt">(IAM roles untagged: no iam:TagRole).</text></svg></div>
   <figcaption>Black arrows are the request path (1–9), green dotted arrows are the records AWS writes as a side effect, red dashed arrows are what the dashboard reads (A–F). Nothing leaves the AWS account except the dashboard's read calls from the laptop.</figcaption>
 </figure>
 

diff --git a/docs/build_architecture_page.py b/docs/build_architecture_page.py
@@ -88,9 +88,9 @@ for i, (txt, kind) in enumerate([("Request · 1–9", "req"), ("Telemetry", "tel
     label(x + 48, 26, txt, cls="lg")
 
 # ---- laptop row
-box(20, 48, 1560, 136, INK, ">_", "Your laptop · Python 3.12 + boto3 · AWS SSO profile genai-demo")
+box(20, 48, 1560, 136, INK, ">_", "Presenter's laptop · Python 3.12 + boto3 · AWS SSO · traffic generator + local dashboard copy")
 card(50, 96, "Presenter", "asks the agent a question", "P", "#3b4456")
-card(C2, 96, "Live test tab", "inside the Streamlit dashboard", "LT", RED)
+card(C2, 96, "Live test tab", "inside the dashboard", "LT", RED)
 card(640, 96, "Invoke wrapper", "boto3 · enableTrace=true", "W", "#3b4456")
 card(935, 96, "Traffic generator", "50 scripted demo prompts", "TG", "#3b4456")
 path("M280,128 H343", "req"); num(312, 128, 1)
@@ -100,12 +100,12 @@ lines(1230, 104, [("Credentials come from IAM Identity", "nt"), ("Center (SSO). 
                   ("are stored on the laptop.", "nt")])
 
 # ---- AWS account
-box(20, 220, 1180, 640, BLUE, "aws", "AWS account · shared company account · us-east-1")
+box(20, 220, 1180, 640, BLUE, "aws", "AWS · us-east-1 (N. Virginia) · agents, model and every record")
 
 zone(45, 262, 1130, 290, "#f1f5fe", "#c3d2f5", "AGENTS · two hosting styles, one model", BLUE)
 card(C1, 322, "HR Assistant", "classic Bedrock Agent", "HR", BLUE)
 card(C2, 322, "Guardrail", "PII mask · denied topic", "G", BLUE)
-card(C3, 322, "Claude Haiku 4.5", "us. inference profile", "AI", ORANGE)
+card(C3, 322, "Haiku 4.5 model", "Anthropic · us. inference profile", "AI", ORANGE)
 card(C4, 322, "IT Support", "AgentCore Harness", "IT", BLUE)
 card(C1, 450, "hr-tools Lambda", "leave balance · HR policy", "λ", BLUE)
 card(C4, 450, "Gateway → it-tools λ", "MCP: ticket · reset steps", "GW", BLUE)
@@ -140,7 +140,7 @@ path("M735,694 V748", "tel"); label(745, 726, "copy")
 path("M1010,694 V748", "tel"); label(1020, 726, "rendered in")
 
 # ---- dashboard
-box(20, 890, 1180, 180, RED, "D", "Dashboard · Streamlit on your laptop · reads through boto3")
+box(20, 890, 1180, 180, RED, "D", "Dashboard · ECS Fargate in ap-south-1 (Mumbai) · password · read-only task role · reads us-east-1")
 card(C1, 980, "Sessions · classic", "metrics + step timeline", "S", RED)
 card(C2, 980, "Audit trail", "who did what, when", "A", RED)
 card(C3, 980, "Prompts and guardrails", "model I/O · blocks · errors", "P", RED)
@@ -153,6 +153,10 @@ path("M560,978 V870 H597 V662 H577", "read"); letter(597, 720, "E")
 path("M830,978 V870 H872 V662 H852", "read"); letter(872, 720, "D F")
 path("M1100,978 V870 H1150 V662 H1127", "read"); letter(1150, 720, "C")
 path("M1185,890 V354 H1127", "read"); letter(1185, 720, "A"); label(1177, 578, "agent config", "end")
+# The read arrows pass through the dashboard title: draw it again on top, with a white halo.
+svg.append('<text x="62" y="910" class="bh" style="paint-order:stroke;stroke:#fff;stroke-width:9px;'
+           'stroke-linejoin:round">Dashboard · ECS Fargate in ap-south-1 (Mumbai) · password · read-only task role · '
+           'reads us-east-1</text>')
 
 # ---- right panel
 def panel(y, h, title, rows):
@@ -170,12 +174,13 @@ panel(220, 330, "Design principles", [
     ("Cheap on purpose.", "pb"), ("Haiku 4.5, on-demand billing, 30-day expiry.", "pt"),
 ])
 panel(575, 245, "Cost · demo week (≈500 agent runs)", [
-    ("Claude Haiku 4.5 model calls", "pt", "≈ $5.50"),
+    ("Haiku 4.5 model calls", "pt", "≈ $5.50"),
     ("Guardrail checks", "pt", "≈ $0.25"),
     ("AgentCore Harness + Gateway", "pt", "< $0.50"),
     ("Logs, trail, DynamoDB, S3", "pt", "< $0.20"),
-    ("Lambda, budget, Streamlit (local)", "pt", "$0"),
-    ("Total", "pb", "≈ $6–8"),
+    ("Dashboard hosting (Fargate, Mumbai)", "pt", "≈ $4.20"),
+    ("Lambda, budget", "pt", "$0"),
+    ("Total", "pb", "≈ $10–12"),
     ("Model tokens are ~90% of the bill.", "pt"),
     ("Budget alarm: $25/month, email alerts.", "pt"),
 ])
@@ -197,7 +202,7 @@ DEFS = "".join(
 
 SVG = (
     '<svg viewBox="0 0 1600 1090" role="img" aria-label="Requests flow from the laptop to a classic Bedrock Agent and an '
-    'AgentCore agent that share Claude Haiku 4.5; every call is recorded by CloudTrail, model invocation logging, '
+    'AgentCore agent that share the Haiku 4.5 model in us-east-1; every call is recorded by CloudTrail, model invocation logging, '
     'CloudWatch metrics, DynamoDB traces and AgentCore spans, and the Streamlit dashboard reads all of them back.">'
     f'<defs>{DEFS}</defs>' + "".join(svg) + "</svg>"
 )
